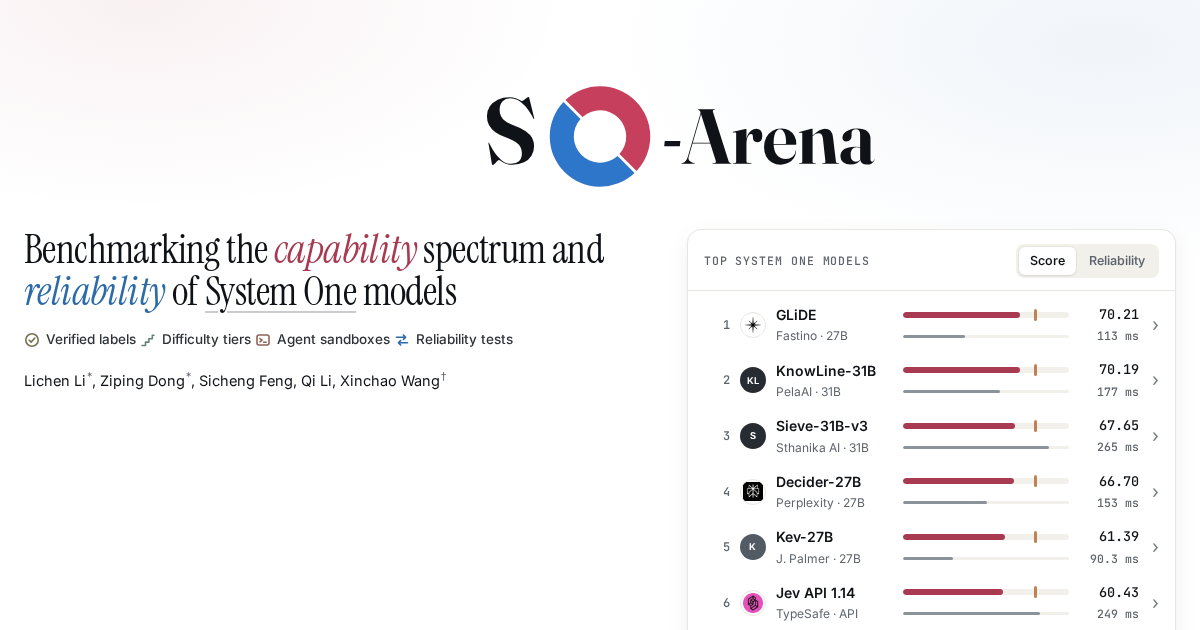
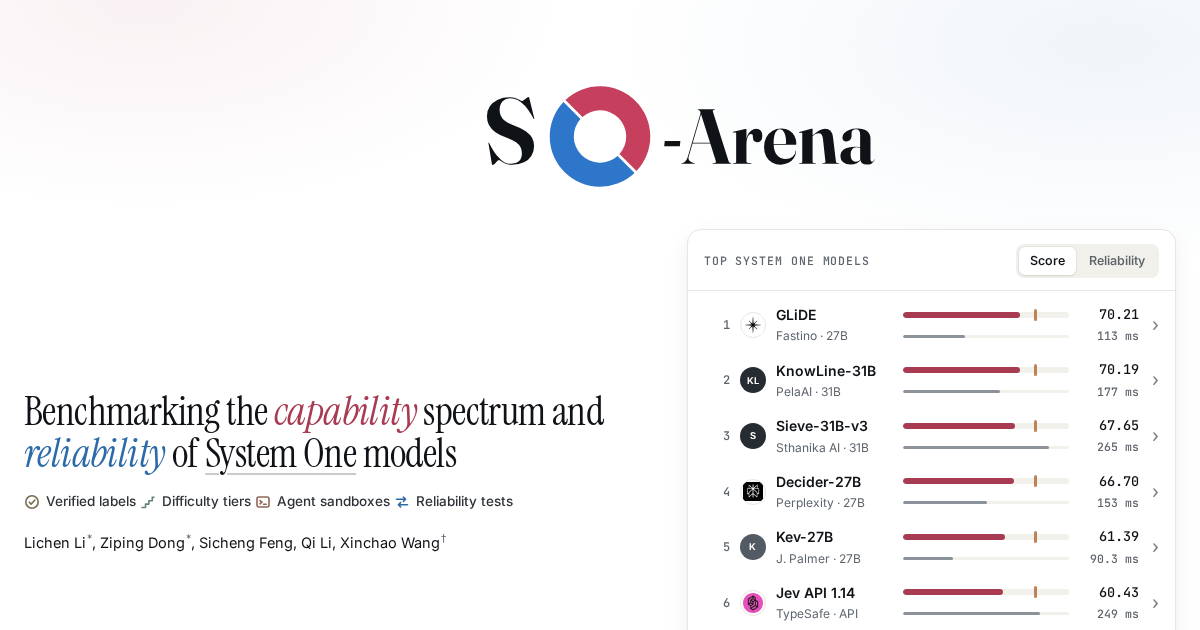
Reliability demo with the robot (understandable without text); less text across the site, details behind info buttons (user)
- Demo: original options, shuffled (the blocks slide; the robot follows B), correct option
  missing (B leaves a dashed ghost; Null appears; the robot hits it). S, N, R as a one-line key.
- Key results: number, title, chart and a short caption; the explanation behind an info button.
- Leaderboard, benchmark, evaluate and chart notes moved behind info buttons; shorter leads.

Claude-Session: https://claude.ai/code/session_01636tz9RwzvgsvAXB1VTh26

diff --git a/assets/js/app.js b/assets/js/app.js
@@ -129,13 +129,15 @@
     const tiles = [
       ["leaderboard", "", `${f1(best.score)}<small>&nbsp;vs ${f1(LUNA.score)}</small>`, "System Two still leads", "The best System One models trail GPT-6 Luna, our System Two reference, by about ten points.",
         mini([[esc(best.name), best.score, "var(--cap)"], ["GPT-6 Luna", LUNA.score, "var(--s2)"]], 100, f1)],
-      ["results", "speed", "&lt;&thinsp;0.3<small> s</small>", "System One is fast", "Every open System One model, per task on one H100; GPT-6 is timed through its API.",
+      ["results", "speed", "&lt;&thinsp;0.3<small> s</small>", "System One is fast", "Every open System One model answers within 0.3 s per task on one H100; GPT-6 is timed through its API.",
         mini([["Slowest open", slow.latency.mean_ms, "var(--lat)"], ["GPT-6 Luna", LUNA.latency.mean_ms, "var(--s2)"]], 3000, sec)],
       ["reliability", "rel", `${ord(RANK_R.get(best.key))}`, "Top score ≠ most reliable", `${esc(best.name)}, the top scorer, is ${ord(RANK_R.get(best.key))} in reliability.`,
         mini([[esc(r1.name), R_(r1), "var(--rel)"], [esc(r2.name), R_(r2), "var(--rel)"], [esc(best.name), R_(best), "var(--rel)"]], 100, f1)],
-      ["results", "gap", `${sg(lo)}<small>&nbsp;to ${sg(hi)}</small>`, "The gap depends on the domain", `${esc(best.name)} minus GPT-6 Luna in each domain, as in the domain rankings; dots coloured by family.`, dots],
+      ["results", "gap", `${sg(lo)}<small>&nbsp;to ${sg(hi)}</small>`, "The gap depends on the domain", `${esc(best.name)} minus GPT-6 Luna in each of the 11 domains (leaderboard tier); dots coloured by domain family.`, dots],
     ];
-    $("#kres").innerHTML = tiles.map(([sec_, k, big, h, p, viz]) => `<a class="kr" href="#${sec_}"${k ? ` data-chart="${k}"` : ""}><div class="big">${big}</div><h3>${h}</h3><p>${p}</p>${viz}</a>`).join("");
+    const CAP = ["Score", "Mean time per task", "Reliability R", "Per domain, by family"];
+    $("#kres").innerHTML = tiles.map(([sec_, k, big, h, p, viz], i) => `<div class="kr"><a class="krl" href="#${sec_}"${k ? ` data-chart="${k}"` : ""}><div class="big">${big}</div><h3>${h}</h3></a>
+      <button class="info" type="button" data-info="${esc(p)}">i</button>${viz}<span class="kcap">${CAP[i]}</span></div>`).join("");
   }
 
   // ---- leaderboard -------------------------------------------------------------------------------------------------
@@ -381,13 +383,13 @@
     `<span><i class="dia" style="background:${S2C}"></i>GPT-6 (System Two)</span>` : "") + extra;
 
   const INS = {
-    speed: { title: "Score against latency", sub: "The line is the Pareto frontier of System One models.",
+    speed: { title: "Score against latency", sub: "Dashed line: the best score reachable at each speed.",
       note: "Mean latency per task: open weights on one H100 GPU, APIs end to end." },
     rel: { title: "Reliability against score", sub: "A higher score does not always mean higher reliability.", note: "" },
     sn: { title: "Order stability and null discrimination", sub: "Dashed curves mark constant R.", note: "Jeva-4B's S is 1 by construction (its option cache)." },
     tier: { title: "Scores by difficulty tier", sub: "Tiers are defined within each domain, not across domains.", note: "Highlighted: the domain's best System One model, StartLux Instant and GPT-6 Luna." },
-    order: { title: "How accuracy moves with the option order", sub: "939 reliability items with a correct answer, in 12 reorderings, as the change from their original order. A wider spread: answers depend more on the order.", note: "Accuracy from the reliability runs, separate from the leaderboard score. Jeva-4B scores each option on its own, so order cannot change its answer." },
-    gap: { title: "Gap to GPT-6 Luna, by domain", sub: "On the medium and hard tiers (not only the leaderboard tier), with 95% confidence intervals. Domains are grouped by how the gap behaves.", note: "Smaller models build on Qwen3.5, larger ones on Qwen3.8-27B." },
+    order: { title: "How accuracy moves with the option order", sub: "Change from the original order, in 12 shuffles of the same items.", note: "Accuracy from the reliability runs, separate from the leaderboard score. Jeva-4B scores each option on its own, so order cannot change its answer." },
+    gap: { title: "Gap to GPT-6 Luna, by domain", sub: "Medium and hard tiers, with 95% confidence intervals.", note: "Not only the leaderboard tier, so the gaps differ from the domain cards. Domains are grouped by how the gap behaves. Smaller models build on Qwen3.5, larger ones on Qwen3.8-27B." },
   };
   let tierDom = "math";
   // Two chart panels share this routine: Results (speed, difficulty, gap) and the Reliability section's evidence.
@@ -396,7 +398,7 @@
   const insights = () => PANELS.forEach(drawPanel);
   function drawPanel(P) {
     const insKey = P.key, c = INS[insKey], LG = $(P.lg);
-    $(P.title).textContent = c.title; $(P.sub).textContent = c.sub; $(P.note).textContent = c.note;
+    $(P.title).innerHTML = esc(c.title) + (c.note ? ` <button class="info" type="button" data-info="${esc(c.note)}">i</button>` : ""); $(P.sub).textContent = c.sub; $(P.note).textContent = "";
     if (P.host === "#chart") $("#tier-chips").hidden = insKey !== "tier";
     const host = $(P.host);
     host.classList.toggle("html", insKey === "gap"); host.setAttribute("role", insKey === "gap" || insKey === "order" ? "region" : "img");
@@ -510,43 +512,57 @@
   }
 
   // ---- reliability demo and facts -----------------------------------------------------------------------------------
+  // Reliability demo, after the paper's Fig. 1: a robot jumps to hit the block it chooses. Scene 1: the original
+  // options; scene 2: the blocks shuffle and the robot follows B; scene 3: B is removed, "Null" appears, the robot hits it.
+  const ROBOT = `<svg viewBox="0 0 24 30" aria-hidden="true"><rect x="11" y="0" width="2" height="4" fill="currentColor"/><circle cx="12" cy="1.5" r="1.8" fill="var(--cap)"/>
+    <rect x="3" y="4" width="18" height="12" rx="3" fill="currentColor"/><rect x="7" y="8.5" width="3" height="3" rx="1" fill="#fff"/><rect x="14" y="8.5" width="3" height="3" rx="1" fill="#fff"/>
+    <rect x="6" y="17" width="12" height="8" rx="2" fill="currentColor"/><rect x="7" y="25" width="3" height="5" rx="1" fill="currentColor"/><rect x="14" y="25" width="3" height="5" rx="1" fill="currentColor"/></svg>`;
   function demo() {
     const host = $("#demo");
-    const sc = [["Baseline: one option set", "Other benchmarks score a single decision.", "Correct"],
-      ["Options reordered", "Does the model choose the same option?", "Same choice"],
-      ["Correct option missing", "Does it see that no option is correct?", "No valid option"]];
-    host.innerHTML = `<div class="demo-top"><span class="label">Baseline and the two tests</span><button class="btn" type="button" id="replay" style="height:32px;font-size:13px">Replay</button></div>` +
-      sc.map(([h, p, v], i) => `<div class="scene" data-i="${i}"><div><h4>${h}</h4><p>${p}</p></div><div class="stage"></div>
-        <div class="verdict"><svg viewBox="0 0 16 16" aria-hidden="true"><circle cx="8" cy="8" r="7.5" fill="#e3f1e9"/><path d="M4.5 8.2l2.3 2.3 4.7-5" fill="none" stroke="#2f7d57" stroke-width="1.8" stroke-linecap="round" stroke-linejoin="round"/></svg>${v}</div></div>`).join("");
-    const W = 34, G = 8, NW = 58;
-    const scenes = $$(".scene", host).map(s => {
-      const st = $(".stage", s), mk = (t, w = W) => { const b = document.createElement("span"); b.className = "blk"; b.textContent = t; b.style.width = w + "px"; st.appendChild(b); return b; };
-      const o = { s, st, A: mk("A"), B: mk("B"), C: mk("C"), v: $(".verdict", s) };
+    const SC = [["Original options", "", "Correct"], ["Shuffled", "s", "Same answer"], ["Correct option missing", "n", "Picks Null"]];
+    host.innerHTML = SC.map(([h, k, v], i) => `<div class="scene2" data-i="${i}"><div class="sh">${k ? `<b class="sym ${k}">${k.toUpperCase()}</b>` : ""}<span>${h}</span></div>
+        <div class="stage2"><span class="bot">${ROBOT}</span></div>
+        <div class="verdict"><svg viewBox="0 0 16 16" aria-hidden="true"><circle cx="8" cy="8" r="7.5" fill="#e3f1e9"/><path d="M4.5 8.2l2.3 2.3 4.7-5" fill="none" stroke="#2f7d57" stroke-width="1.8" stroke-linecap="round" stroke-linejoin="round"/></svg>${v}</div></div>`).join("") +
+      `<button class="replay" type="button" id="replay" aria-label="Replay the demo"><svg viewBox="0 0 16 16" aria-hidden="true"><path d="M13 8a5 5 0 1 1-1.5-3.6M13 2.5v3h-3" fill="none" stroke="currentColor" stroke-width="1.6" stroke-linecap="round" stroke-linejoin="round"/></svg></button>`;
+    const BW = 40, GAP = 10, NW = 56;
+    const scenes = $$(".scene2", host).map(s => {
+      const st = $(".stage2", s), mk = (t, w = BW) => { const b = document.createElement("span"); b.className = "blk2"; b.textContent = t; b.style.width = w + "px"; st.appendChild(b); return b; };
+      const o = { s, st, A: mk("A"), B: mk("B"), C: mk("C"), bot: $(".bot", s), v: $(".verdict", s) };
       if (s.dataset.i === "2") o.N = mk("Null", NW);
-      o.car = document.createElement("span"); o.car.className = "caret"; st.appendChild(o.car);
       return o;
     });
-    const width = b => b.textContent === "Null" ? NW : W;
-    const place = (o, order) => { let x = 0; for (const b of order) { b.style.left = x + "px"; x += width(b) + G; } };
-    const point = (o, b) => { o.car.style.left = (parseFloat(b.style.left) + width(b) / 2 - 6) + "px"; o.car.style.opacity = 1; };
+    const wOf = b => b.textContent === "Null" ? NW : BW;
+    const place = order => { let x = 0; for (const b of order) { b.style.left = x + "px"; x += wOf(b) + GAP; } };
+    const walk = (o, b) => { o.bot.style.left = (parseFloat(b.style.left) + wOf(b) / 2 - 12) + "px"; };
+    const hit = (o, b) => {                          // jump; the block bumps and turns dark as it is hit
+      o.bot.classList.remove("jump"); void o.bot.offsetWidth; o.bot.classList.add("jump");
+      later(() => { b.classList.add("bump", "pick"); later(() => b.classList.remove("bump"), 220); }, 160);
+    };
     let timers = [];
     const later = (f, t) => timers.push(setTimeout(f, RM ? 0 : t));
     function reset() {
       timers.forEach(clearTimeout); timers = [];
       for (const o of scenes) {
-        [o.A, o.B, o.C, o.N].forEach(b => b && b.classList.remove("pick", "gone", "hide"));
-        place(o, [o.A, o.B, o.C]); if (o.N) { o.N.classList.add("hide"); o.N.style.left = (3 * (W + G)) + "px"; }
-        o.car.style.opacity = 0; o.v.classList.remove("on");
+        [o.A, o.B, o.C, o.N].forEach(b => b && b.classList.remove("pick", "gone", "hide", "bump"));
+        place([o.A, o.B, o.C]); if (o.N) { o.N.classList.add("hide"); o.N.style.left = 3 * (BW + GAP) + "px"; }
+        o.bot.classList.remove("jump"); o.bot.style.transition = "none"; o.bot.style.left = "-34px"; void o.bot.offsetWidth; o.bot.style.transition = "";
+        o.v.classList.remove("on");
       }
     }
     function play() {
       reset(); const [a, b, c] = scenes;
-      later(() => { for (const o of scenes) { o.B.classList.add("pick"); point(o, o.B); } a.v.classList.add("on"); }, 350);
-      later(() => { place(b, [b.C, b.A, b.B]); point(b, b.B); }, 1500);
-      later(() => { c.B.classList.remove("pick"); c.B.classList.add("gone"); c.car.style.opacity = 0; }, 1500);
-      later(() => { c.N.classList.remove("hide"); }, 2100);
-      later(() => { b.v.classList.add("on"); c.N.classList.add("pick"); point(c, c.N); }, 2600);
-      later(() => { c.v.classList.add("on"); }, 2900);
+      later(() => scenes.forEach(o => walk(o, o.B)), 200);                      // all three robots go to B and hit it
+      later(() => scenes.forEach(o => hit(o, o.B)), 900);
+      later(() => a.v.classList.add("on"), 1300);
+      later(() => { b.B.classList.remove("pick"); place([b.C, b.A, b.B]); }, 1900);   // shuffle: B slides to the end
+      later(() => walk(b, b.B), 2500);
+      later(() => hit(b, b.B), 3150);
+      later(() => b.v.classList.add("on"), 3550);
+      later(() => { c.B.classList.remove("pick"); c.B.classList.add("gone"); }, 1900);   // the correct option drops out
+      later(() => c.N.classList.remove("hide"), 2500);
+      later(() => walk(c, c.N), 2900);
+      later(() => hit(c, c.N), 3600);
+      later(() => c.v.classList.add("on"), 4000);
     }
     $("#replay").addEventListener("click", play);
     reset();
@@ -668,9 +684,19 @@
   }
 
   // ---- wiring ------------------------------------------------------------------------------------------------------
+  function infos() {
+    let cur = null;
+    const show = b => { cur = b; const r = b.getBoundingClientRect(); tip(`<span class="s" style="color:inherit">${esc(b.dataset.info)}</span>`, r.right, r.bottom); };
+    const hide = () => { cur = null; untip(); };
+    document.addEventListener("pointerover", e => { const b = e.target.closest(".info"); if (b && e.pointerType === "mouse") show(b); });
+    document.addEventListener("pointerout", e => { const b = e.target.closest(".info"); if (b && e.pointerType === "mouse") hide(); });
+    document.addEventListener("click", e => { const b = e.target.closest(".info"); if (b) { e.preventDefault(); e.stopPropagation(); cur === b ? hide() : show(b); } else if (cur) hide(); }, true);
+    document.addEventListener("focusin", e => { const b = e.target.closest(".info"); if (b) show(b); });
+    document.addEventListener("focusout", e => { if (e.target.closest(".info")) hide(); });
+  }
   function wire() {
     document.addEventListener("click", e => {
-      const kr = e.target.closest(".kr[data-chart], [data-chart-link]"); if (kr) showChart(kr.dataset.chart || kr.dataset.chartLink);
+      const kr = e.target.closest(".krl[data-chart], [data-chart-link]"); if (kr) showChart(kr.dataset.chart || kr.dataset.chartLink);
       const dv = e.target.closest("[data-view]"); if (dv) { $("#lb-view")._sel(dv.dataset.view); $("#leaderboard").scrollIntoView(); return; }
       const bm = e.target.closest("[data-bm]"); if (bm) { boardMode = bm.dataset.bm; board(); return; }
       const dm = e.target.closest("[data-domain]"); if (dm) { openDomain(dm.dataset.domain); return; }
@@ -695,7 +721,7 @@
 
   function init() {
     nav(); board(); kres(); leaderboardControls(); table(); dgrid(); insightsControls(); insights();
-    demo(); benchmark(); wire(); logoMotion(); systemOne();
+    demo(); benchmark(); wire(); infos(); logoMotion(); systemOne();
     const q = new URLSearchParams(location.search);
     if (q.get("domain") && DOM[q.get("domain")]) openDomain(q.get("domain"));
     else if (q.get("model") && BY[q.get("model")]) openModel(BY[q.get("model")]);

diff --git a/index.html b/index.html
@@ -16,9 +16,9 @@
 <link rel="icon" href="assets/img/favicon.svg?v=9d2ac14038" type="image/svg+xml">
 <link rel="preload" href="assets/fonts/inter-var.woff2" as="font" type="font/woff2" crossorigin>
 <link rel="preload" href="assets/fonts/instrument-serif.woff2" as="font" type="font/woff2" crossorigin>
-<link rel="stylesheet" href="assets/css/site.css?v=9e92375850">
+<link rel="stylesheet" href="assets/css/site.css?v=1ff104ef0a">
 <script defer src="assets/js/data.js?v=79cc9fcc40"></script>
-<script defer src="assets/js/app.js?v=42fba399d3"></script>
+<script defer src="assets/js/app.js?v=abba1c0b4f"></script>
 </head>
 <body>
 <a class="skip" href="#leaderboard">Skip to the leaderboard</a>
@@ -70,7 +70,7 @@
     <div class="wrap">
       <div class="sec-head">
         <div><span class="label">01 — Leaderboard</span><h2 id="lb-h">Leaderboard</h2></div>
-        <p class="sec-lead">The score is the mean of 11 domains, each on its hardest tier: 1,232 of the 2,919 tasks. Reliability is measured for the 18 System One models.</p>
+        <p class="sec-lead">The mean of 11 domains, each on its hardest tier. <button class="info" type="button" data-info="1,232 of the 2,919 tasks count toward the score. Reliability is measured for the 18 System One models; GPT-6 Sol and Luna are System Two references.">i</button></p>
       </div>
       <div class="toolbar">
         <div class="tools-l">
@@ -87,11 +87,11 @@
       </div>
       <div id="v-table" role="tabpanel" aria-labelledby="t-table">
         <div class="tbl-wrap" tabindex="0" aria-label="Leaderboard table; scrolls sideways"><table class="lb" id="lb"></table></div>
-        <div class="lb-foot"><p class="note">Latency: mean per task, one H100 GPU; APIs end to end. GLiDE and KnowLine-31B differ by 0.02 points, less than option order alone moves their accuracy (<a href="#reliability" data-chart-link="order">Reliability → Option order</a>). <a href="data/arena.json" download>All results (JSON)</a></p></div>
+        <div class="lb-foot"><p class="note"><a href="data/arena.json" download>All results (JSON)</a> <button class="info" type="button" data-info="Latency: mean time per task; open weights on one H100 GPU, APIs end to end. GLiDE and KnowLine-31B differ by 0.02 points, less than option order alone moves their accuracy (see Reliability, Option order).">i</button></p></div>
       </div>
       <div id="v-domains" role="tabpanel" aria-labelledby="t-domains" hidden>
         <div class="dgrid" id="dgrid"></div>
-        <p class="note">Top three System One models per domain; GPT-6 Luna for reference.</p>
+        
       </div>
     </div>
   </section>
@@ -101,15 +101,13 @@
     <div class="wrap">
       <div class="sec-head">
         <div><span class="label">02 — Decision reliability</span><h2 id="rl-h">Does a decision hold when the <em>options</em> change?</h2></div>
-        <p class="sec-lead">Two tests, combined into one reliability score R; the charts below show the results.</p>
+        
       </div>
-      <div class="rel rv">
-        <div class="defs">
-          <div class="def"><span class="sym" aria-hidden="true">S</span><div><h3>Order stability</h3><p>Does the model keep its answer when the options are shuffled? Measured over 12 reorderings; 0 is chance, 1 always.</p></div></div>
-          <div class="def"><span class="sym" aria-hidden="true">N</span><div><h3>Null discrimination</h3><p>Does it notice when the correct option is missing? Measured by how well its “no option is correct” probability separates such items (2·AUC − 1); 0 is chance, 1 perfect.</p></div></div>
-          <div class="def"><span class="sym" aria-hidden="true">R</span><div><h3>Reliability</h3><p>Both at once: <i>R</i> = √(<i>S</i>·<i>N</i>), as a percentage.</p></div></div>
-        </div>
-        <div class="demo" id="demo"></div>
+      <div class="rel2 rv" id="demo"></div>
+      <div class="rkey">
+        <span><b class="sym s">S</b>Order stability: keeps its answer when shuffled <button class="info" type="button" data-info="Share of 12 reorderings in which the model keeps its answer; 0 is chance, 1 always.">i</button></span>
+        <span><b class="sym n">N</b>Null discrimination: notices the missing answer <button class="info" type="button" data-info="How well the model's 'no option is correct' probability separates items with and without their correct option: 2·AUC − 1; 0 is chance, 1 perfect.">i</button></span>
+        <span><b class="sym r">R</b>Reliability = √(S·N), from 0 to 100</span>
       </div>
       <div class="panel rpanel">
         <div class="panel-head">
@@ -163,13 +161,13 @@
     <div class="wrap">
       <div class="sec-head">
         <div><span class="label">04 — The benchmark</span><h2 id="bm-h">2,919 tasks in 11 domains</h2></div>
-        <p class="sec-lead">Static questions and web and tool sandboxes, posed through one decision interface.</p>
+        <p class="sec-lead">Static questions plus web and tool sandboxes, all posed as decisions.</p>
       </div>
       <div class="steps rv" id="steps"></div>
       <table class="dtable rv" id="dtable"></table>
       <div class="score-box rv">
         <div><h3>How the leaderboard is scored</h3>
-          <p>Domains count equally whatever their size (20 to 200 leaderboard tasks), each on its hardest tier (Math: hard and very hard; untiered domains: all tasks): 1,232 tasks.</p></div>
+          <p>Domains count equally, each on its hardest tier: 1,232 tasks. <button class="info" type="button" data-info="Equal weight whatever the domain's size (20 to 200 leaderboard tasks). Math uses its hard and very hard tiers; untiered domains use all their tasks.">i</button></p></div>
         <div class="formula" aria-label="C of m equals 100 over D times the sum over domains of the mean credit on the domain's leaderboard tasks">
           <math display="block"><mrow><mi>C</mi><mo stretchy="false">(</mo><mi>m</mi><mo stretchy="false">)</mo><mo>=</mo><mfrac><mn>100</mn><mi>D</mi></mfrac><munderover><mo>∑</mo><mrow><mi>d</mi><mo>=</mo><mn>1</mn></mrow><mi>D</mi></munderover><mfrac><mn>1</mn><mrow><mo>|</mo><msub><mi>T</mi><mi>d</mi></msub><mo>|</mo></mrow></mfrac><munder><mo>∑</mo><mrow><mi>i</mi><mo>∈</mo><msub><mi>T</mi><mi>d</mi></msub></mrow></munder><msub><mi>c</mi><mi>i</mi></msub><mo stretchy="false">(</mo><mi>m</mi><mo stretchy="false">)</mo></mrow></math>
           <p class="note"><i>c<sub>i</sub>(m)</i> ∈ [0, 1] is model <i>m</i>'s credit on task <i>i</i>; <i>T<sub>d</sub></i> holds domain <i>d</i>'s leaderboard tasks; <i>D</i> = 11.</p>
@@ -183,7 +181,7 @@
     <div class="wrap">
       <div class="sec-head">
         <div><span class="label">05 — Evaluate</span><h2 id="ev-h">Evaluate your model</h2></div>
-        <p class="sec-lead">The <span class="mono">jev</span> command evaluates any model through an adapter. Linux x86-64, Python 3.12.</p>
+        <p class="sec-lead">Three commands, any model. <button class="info" type="button" data-info="The jev command evaluates any model through an adapter; it needs Linux x86-64 and Python 3.12.">i</button></p>
       </div>
       <div class="runs rv">
         <div class="run"><span class="label">Step 01 · Get the data</span>
@@ -191,16 +189,16 @@
 ./jev fetch-data --output /path/to/so-arena-data
 export SO_ARENA_DATA=/path/to/so-arena-data
 ./jev verify
-./jev setup</code></pre></div><p><span class="mono">verify</span> checks every data file against the release.</p></div>
+./jev setup</code></pre></div><p>Downloads and checks the data. <button class="info" type="button" data-info="verify checks every data file against the release; setup prepares the sandboxes.">i</button></p></div>
         <div class="run"><span class="label">Step 02 · Run your model</span>
           <div class="code"><button class="copy-code" type="button">Copy</button><pre><code>export JEV_ENDPOINT=http://localhost:8000
 ./jev run --adapter adapters:http \
-  --model your-model --out /path/to/new-run</code></pre></div><p>Your server answers <span class="mono">POST /predict</span> with the decision (an option, yes/no, a grade or option probabilities) and <span class="mono">POST /measure</span> with token counts. Web and tool tasks arrive as a series of one-step decisions.</p></div>
+  --model your-model --out /path/to/new-run</code></pre></div><p>Point it at your model server. <button class="info" type="button" data-info="Your server answers POST /predict with the decision (an option, yes/no, a grade or option probabilities) and POST /measure with token counts. Web and tool tasks arrive as a series of one-step decisions.">i</button></p></div>
         <div class="run"><span class="label">Step 03 · Score</span>
           <div class="code"><button class="copy-code" type="button">Copy</button><pre><code>./jev score --run /path/to/new-run \
   --output /path/to/report.json</code></pre></div><p>The leaderboard score, by domain and tier.</p></div>
       </div>
-      <p class="note">Full instructions: <a href="https://github.com/holdrain/SO-Arena" target="_blank" rel="noopener">the SO-Arena repository</a>. Data terms: there is no single licence yet; each task keeps its source's terms, listed in the repository's third-party notices.</p>
+      <p class="note">Full instructions: <a href="https://github.com/holdrain/SO-Arena" target="_blank" rel="noopener">the SO-Arena repository</a>. <button class="info" type="button" data-info="Data terms: there is no single licence yet; each task keeps its source's terms, listed in the repository's third-party notices.">i</button></p>
     </div>
   </section>
 

diff --git a/assets/css/site.css b/assets/css/site.css
@@ -640,3 +640,44 @@ dialog.drawer::backdrop { background: rgba(15, 18, 22, .28); animation: fade .28
 .step .flow span, .step .flow span.ok, .step .flow span.no { border: 0; background: none; padding: 0; }
 .step .flow span.ok { color: var(--good); } .step .flow span.no { color: var(--cap); }
 @media (max-width: 760px) { .bib pre { padding-top: 44px; } }
+
+/* ---- reliability demo: three scenes with a jumping robot ---- */
+.rel2 { position: relative; display: grid; grid-template-columns: repeat(3, minmax(0, 1fr)); gap: 0; border: 1px solid var(--line); border-radius: var(--r); background: var(--soft); overflow: hidden; }
+.scene2 { padding: 22px 24px 20px; display: grid; gap: 14px; justify-items: center; }
+.scene2 + .scene2 { border-left: 1px solid var(--line); }
+.scene2 .sh { display: inline-flex; align-items: center; gap: 8px; font-size: 14px; font-weight: 650; color: var(--ink); justify-self: start; }
+.stage2 { position: relative; width: 206px; height: 92px; }
+.blk2 { position: absolute; top: 6px; height: 40px; display: grid; place-items: center; border: 1.6px solid var(--ink); border-radius: 9px; background: #fff;
+  font: 650 15px/1 var(--sans); color: var(--ink); transition: left .55s cubic-bezier(.65, 0, .35, 1), transform .22s cubic-bezier(.2, 1.4, .4, 1), opacity .35s, background .2s, color .2s; }
+.blk2.pick { background: var(--ink); color: #fff; }
+.blk2.bump { transform: translateY(-7px); }
+.blk2.gone { transform: translateY(26px) scale(.8); opacity: 0; transition: transform .45s cubic-bezier(.5, 0, .75, 0), opacity .45s; }
+.blk2.hide { opacity: 0; transform: translateX(14px); }
+.bot { position: absolute; top: 58px; left: -34px; width: 24px; height: 30px; color: var(--ink); transition: left .6s cubic-bezier(.65, 0, .35, 1); }
+.bot svg { display: block; width: 24px; height: 30px; }
+.bot.jump { animation: jump .42s cubic-bezier(.2, .8, .4, 1); }
+@keyframes jump { 0% { transform: translateY(0); } 40% { transform: translateY(-11px); } 100% { transform: translateY(0); } }
+.scene2 .verdict { justify-self: center; }
+.replay { position: absolute; top: 14px; right: 14px; width: 30px; height: 30px; border-radius: 8px; display: grid; place-items: center; color: var(--muted); border: 1px solid var(--line-2); background: #fff; }
+.replay:hover { color: var(--ink); }
+.replay svg { width: 15px; height: 15px; }
+.sym { display: inline-grid; place-items: center; width: 22px; height: 22px; border-radius: 6px; font: italic 400 15px/1 var(--display); color: #fff; background: var(--ink); flex: none; }
+.sym.s { background: #3d7fbf; } .sym.n { background: #2c6aa8; } .sym.r { background: var(--ink); }
+.rkey { display: flex; flex-wrap: wrap; justify-content: center; gap: 10px 28px; margin: 16px 0 0; font-size: 13.5px; color: var(--ink-2); }
+.rkey span { display: inline-flex; align-items: center; gap: 8px; }
+/* ---- info buttons ---- */
+.info { display: inline-grid; place-items: center; width: 17px; height: 17px; border-radius: 50%; border: 1px solid var(--line-2); background: #fff;
+  font: italic 600 11px/1 Georgia, serif; color: var(--muted); vertical-align: 2px; cursor: help; flex: none; padding: 0; margin-left: 2px; }
+.info:hover, .info:focus-visible { color: var(--ink); border-color: var(--ink-2); outline: none; }
+@media (max-width: 1080px) { .rel2 { grid-template-columns: 1fr; } .scene2 + .scene2 { border-left: 0; border-top: 1px solid var(--line); } }
+@media (prefers-reduced-motion: reduce) { .blk2, .bot { transition: none; } .bot.jump { animation: none; } }
+
+/* ---- key results: title, chart, short caption; details behind the info button ---- */
+.kr { position: relative; }
+.krl { display: block; color: inherit; }
+.kr > .info { position: absolute; top: 24px; right: 22px; }
+.kr .kcap { display: block; margin-top: 8px; font-size: 11.5px; color: var(--muted); }
+@media (hover: hover) { .krl:hover h3 { color: var(--rel); } }
+.blk2.gone { transform: none; opacity: 1; border-style: dashed; border-color: #c4c8cd; color: #c4c8cd; background: transparent; animation: drop .5s ease; }
+@keyframes drop { 0% { transform: translateY(0); opacity: 1; } 45% { transform: translateY(18px); opacity: 0; } 100% { transform: translateY(0); opacity: 1; } }
+.hero-grid { align-items: center; }
